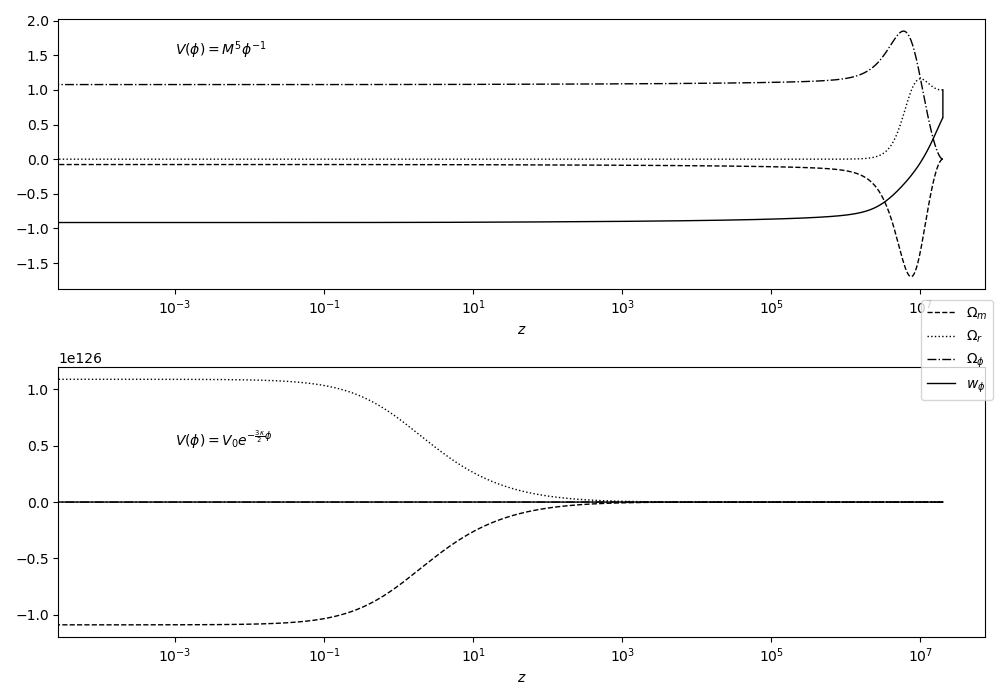
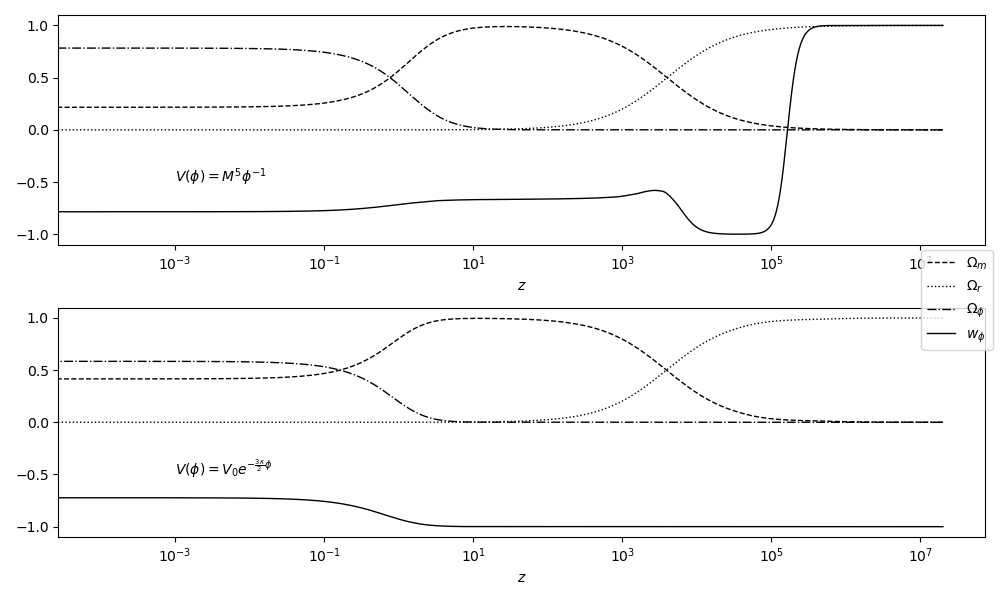
Fixed the field parameters

diff --git a/project-1/equations_of_motion.py b/project-1/equations_of_motion.py
@@ -15,8 +15,8 @@ def differentials_powerlaw(N, variables):
 	'''
 	x1, x2, x3, lmbda = variables
 
-	dx1 = -3 * x1 + np.sqrt(6) / 2 * lmbda * x2**2 + .5 * (3 + 3 * x1**2 - 3 * x2**2 + x2**2)
-	dx2 = -np.sqrt(6) / 2 * lmbda * x1 * x2 + .5 * (3 + 3 * x1**2 - 3 * x2**2 + x3**2)
+	dx1 = -3 * x1 + np.sqrt(6) / 2 * lmbda * x2**2 + .5 * x1 * (3 + 3 * x1**2 - 3 * x2**2 + x3**2)
+	dx2 = -np.sqrt(6) / 2 * lmbda * x1 * x2 + .5 * x2 * (3 + 3 * x1**2 - 3 * x2**2 + x3**2)
 	dx3 = -2 * x3 + .5 * x3 * (3 + 3 * x1**2 - 3 * x2**2 + x3**2)
 	dlmbda = -np.sqrt(6) * lmbda**2 * x1 
 
@@ -32,10 +32,9 @@ def differentials_exponential(N, variables):
 	lmbda = 3 / 2
 	x1, x2, x3 = variables
 
-	dx1 = -3 * x1 + np.sqrt(6) / 2 * lmbda * x2**2 + .5 * (3 + 3 * x1**2 - 3 * x2**2 + x2**2)
-	dx2 = -np.sqrt(6) / 2 * lmbda * x1 * x2 + .5 * (3 + 3 * x1**2 - 3 * x2**2 + x3**2)
+	dx1 = -3 * x1 + np.sqrt(6) / 2 * lmbda * x2**2 + .5 * x1 * (3 + 3 * x1**2 - 3 * x2**2 + x3**2)
+	dx2 = -np.sqrt(6) / 2 * lmbda * x1 * x2 + .5 * x2 * (3 + 3 * x1**2 - 3 * x2**2 + x3**2)
 	dx3 = -2 * x3 + .5 * x3 * (3 + 3 * x1**2 - 3 * x2**2 + x3**2)
-	dlmbda = -np.sqrt(6) * lmbda**2 * x1 
 
 	diffs = np.array([dx1, dx2, dx3])
 
@@ -58,18 +57,18 @@ def integrate(potential_type, dN):
 
 		initial_variables = np.array([x1_0, x2_0, x3_0, lmbda_0])
 
-		sol = solve_ivp(differentials_powerlaw, N_range, initial_variables, dense_output=True)
+		sol = solve_ivp(differentials_powerlaw, N_range, initial_variables, method='DOP853', dense_output=True)
 		
-	elif potential_type == 'exponential':
+	if potential_type == 'exponential':
 
 		# Initial values for exponential potential
-		x1_0 = 0
+		x1_0 = 0.
 		x2_0 = 5e-13
 		x3_0 = 0.9999
 
 		initial_variables = np.array([x1_0, x2_0, x3_0])
 
-		sol = solve_ivp(differentials_exponential, N_range, initial_variables, dense_output=True)
+		sol = solve_ivp(differentials_exponential, N_range, initial_variables, method='DOP853', dense_output=True)
 
 	variables = sol.sol(N)
 
@@ -93,6 +92,16 @@ def integrate(potential_type, dN):
 
 	return Omega_m, Omega_phi, Omega_r, w_phi
 
+
+def Hubble(Omega_m_0, Omega_r_0, Omega_phi_0, EoS_parameter):
+
+	w_phi = EoS_parameter
+	integrand = -3 * (1 + w_phi)
+	I = np.trapz(integrand, N, dx=dN)
+
+	H = np.sqrt(Omega_m_0 * np.exp(-3 * N) + Omega_r_0 * np.exp(-4 * N) + Omega_phi_0 * I)
+
+	return H
 
 # The interval [0, 2e7] in z corresponds to [-ln(1 + 2e7), 0] in N
 N_min = -np.log(1 + 2e7)
@@ -118,8 +127,7 @@ Omega_m[1, :], Omega_phi[1, :], Omega_r[1, :], w_phi[1, :] = integrate('exponent
 plot_text = [r'$V(\phi)=M^5\phi^{-1}$', r'$V(\phi)=V_0e^{-\frac{3\kappa}{2}\phi}$']
 text_pos = [(1e-3, 1.5), (1e-3, .5e126)]
 
-
-fig, ax = plt.subplots(2, 1, figsize=(10, 7))
+fig, ax = plt.subplots(2, 1, figsize=(10, 6))
 
 for i in range(2):
 
@@ -131,7 +139,7 @@ for i in range(2):
 	ax[i].set_xlabel(r'$z$')
 	ax[i].set_xscale('log')
 
-	ax[i].text(text_pos[i][0], text_pos[i][1], plot_text[i], fontsize=10)
+	ax[i].text(1e-3, -.5, plot_text[i], fontsize=10)
 
 # Setting labels
 labels = [r'$\Omega_m$', r'$\Omega_r$', r'$\Omega_\phi$', r'$w_\phi$']
@@ -140,8 +148,21 @@ fig.legend([m, r, phi, w], labels=labels, loc='right')
 plt.tight_layout()
 plt.savefig('figures/equations_of_motion.pdf')
 plt.savefig('figures/equations_of_motion.png')
-plt.show()
 
+Omega_m_0_CDM = .3
+
+H_power = Hubble(Omega_m[0, -1], Omega_r[0, -1], Omega_phi[0, -1], w_phi[0, :])
+H_exp = Hubble(Omega_m[1, -1], Omega_r[1, -1], Omega_phi[1, -1], w_phi[1, :])
+H_CDM = np.sqrt(Omega_m_0_CDM * np.exp(-3 * N) * (1 - Omega_m_0_CDM))
+
+plt.figure()
+
+plt.plot(z, H_power, lw=1, ls='dashed', color='black', label=r'$H(z)^{PL}$')
+plt.plot(z, H_exp, lw=1, ls='dotted', color='black', label=r'$H(z)^{EXP}$')
+plt.plot(z, H_CDM, lw=1, ls='dashdot', color='black', label=r'$H(z)^{\Lambda CDM}$')
+plt.legend()
+
+plt.show()
 
 
 
